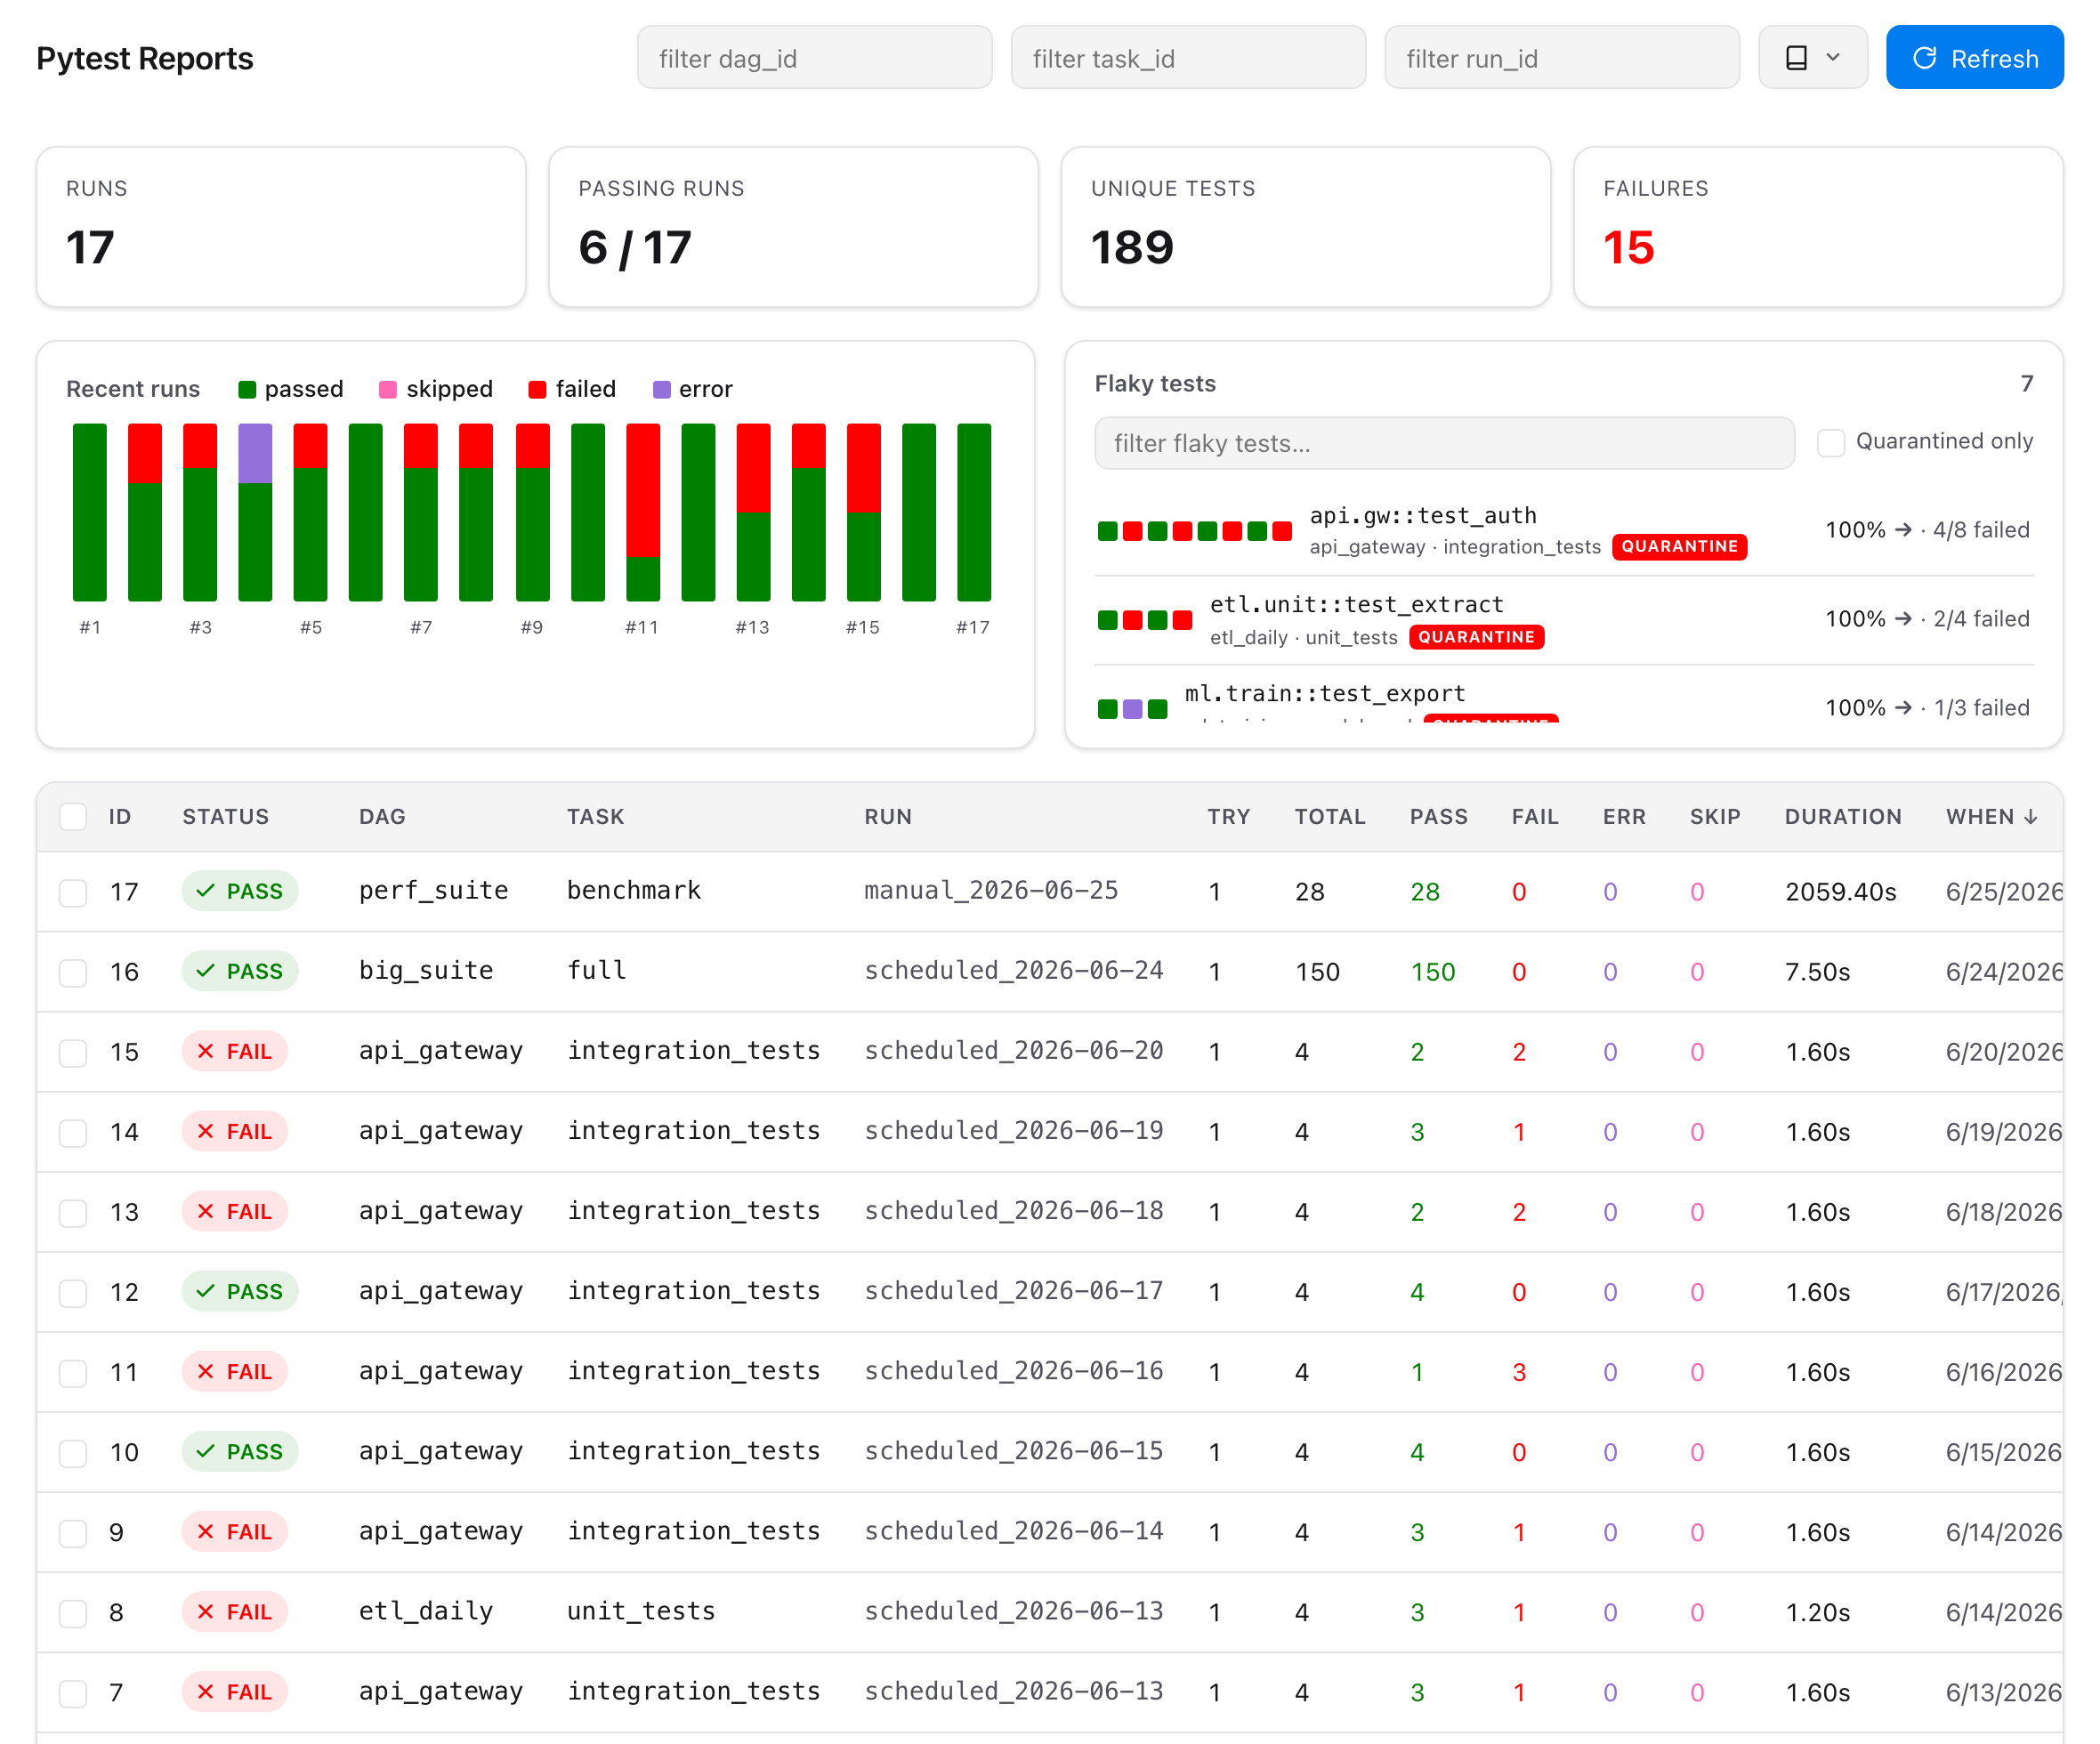
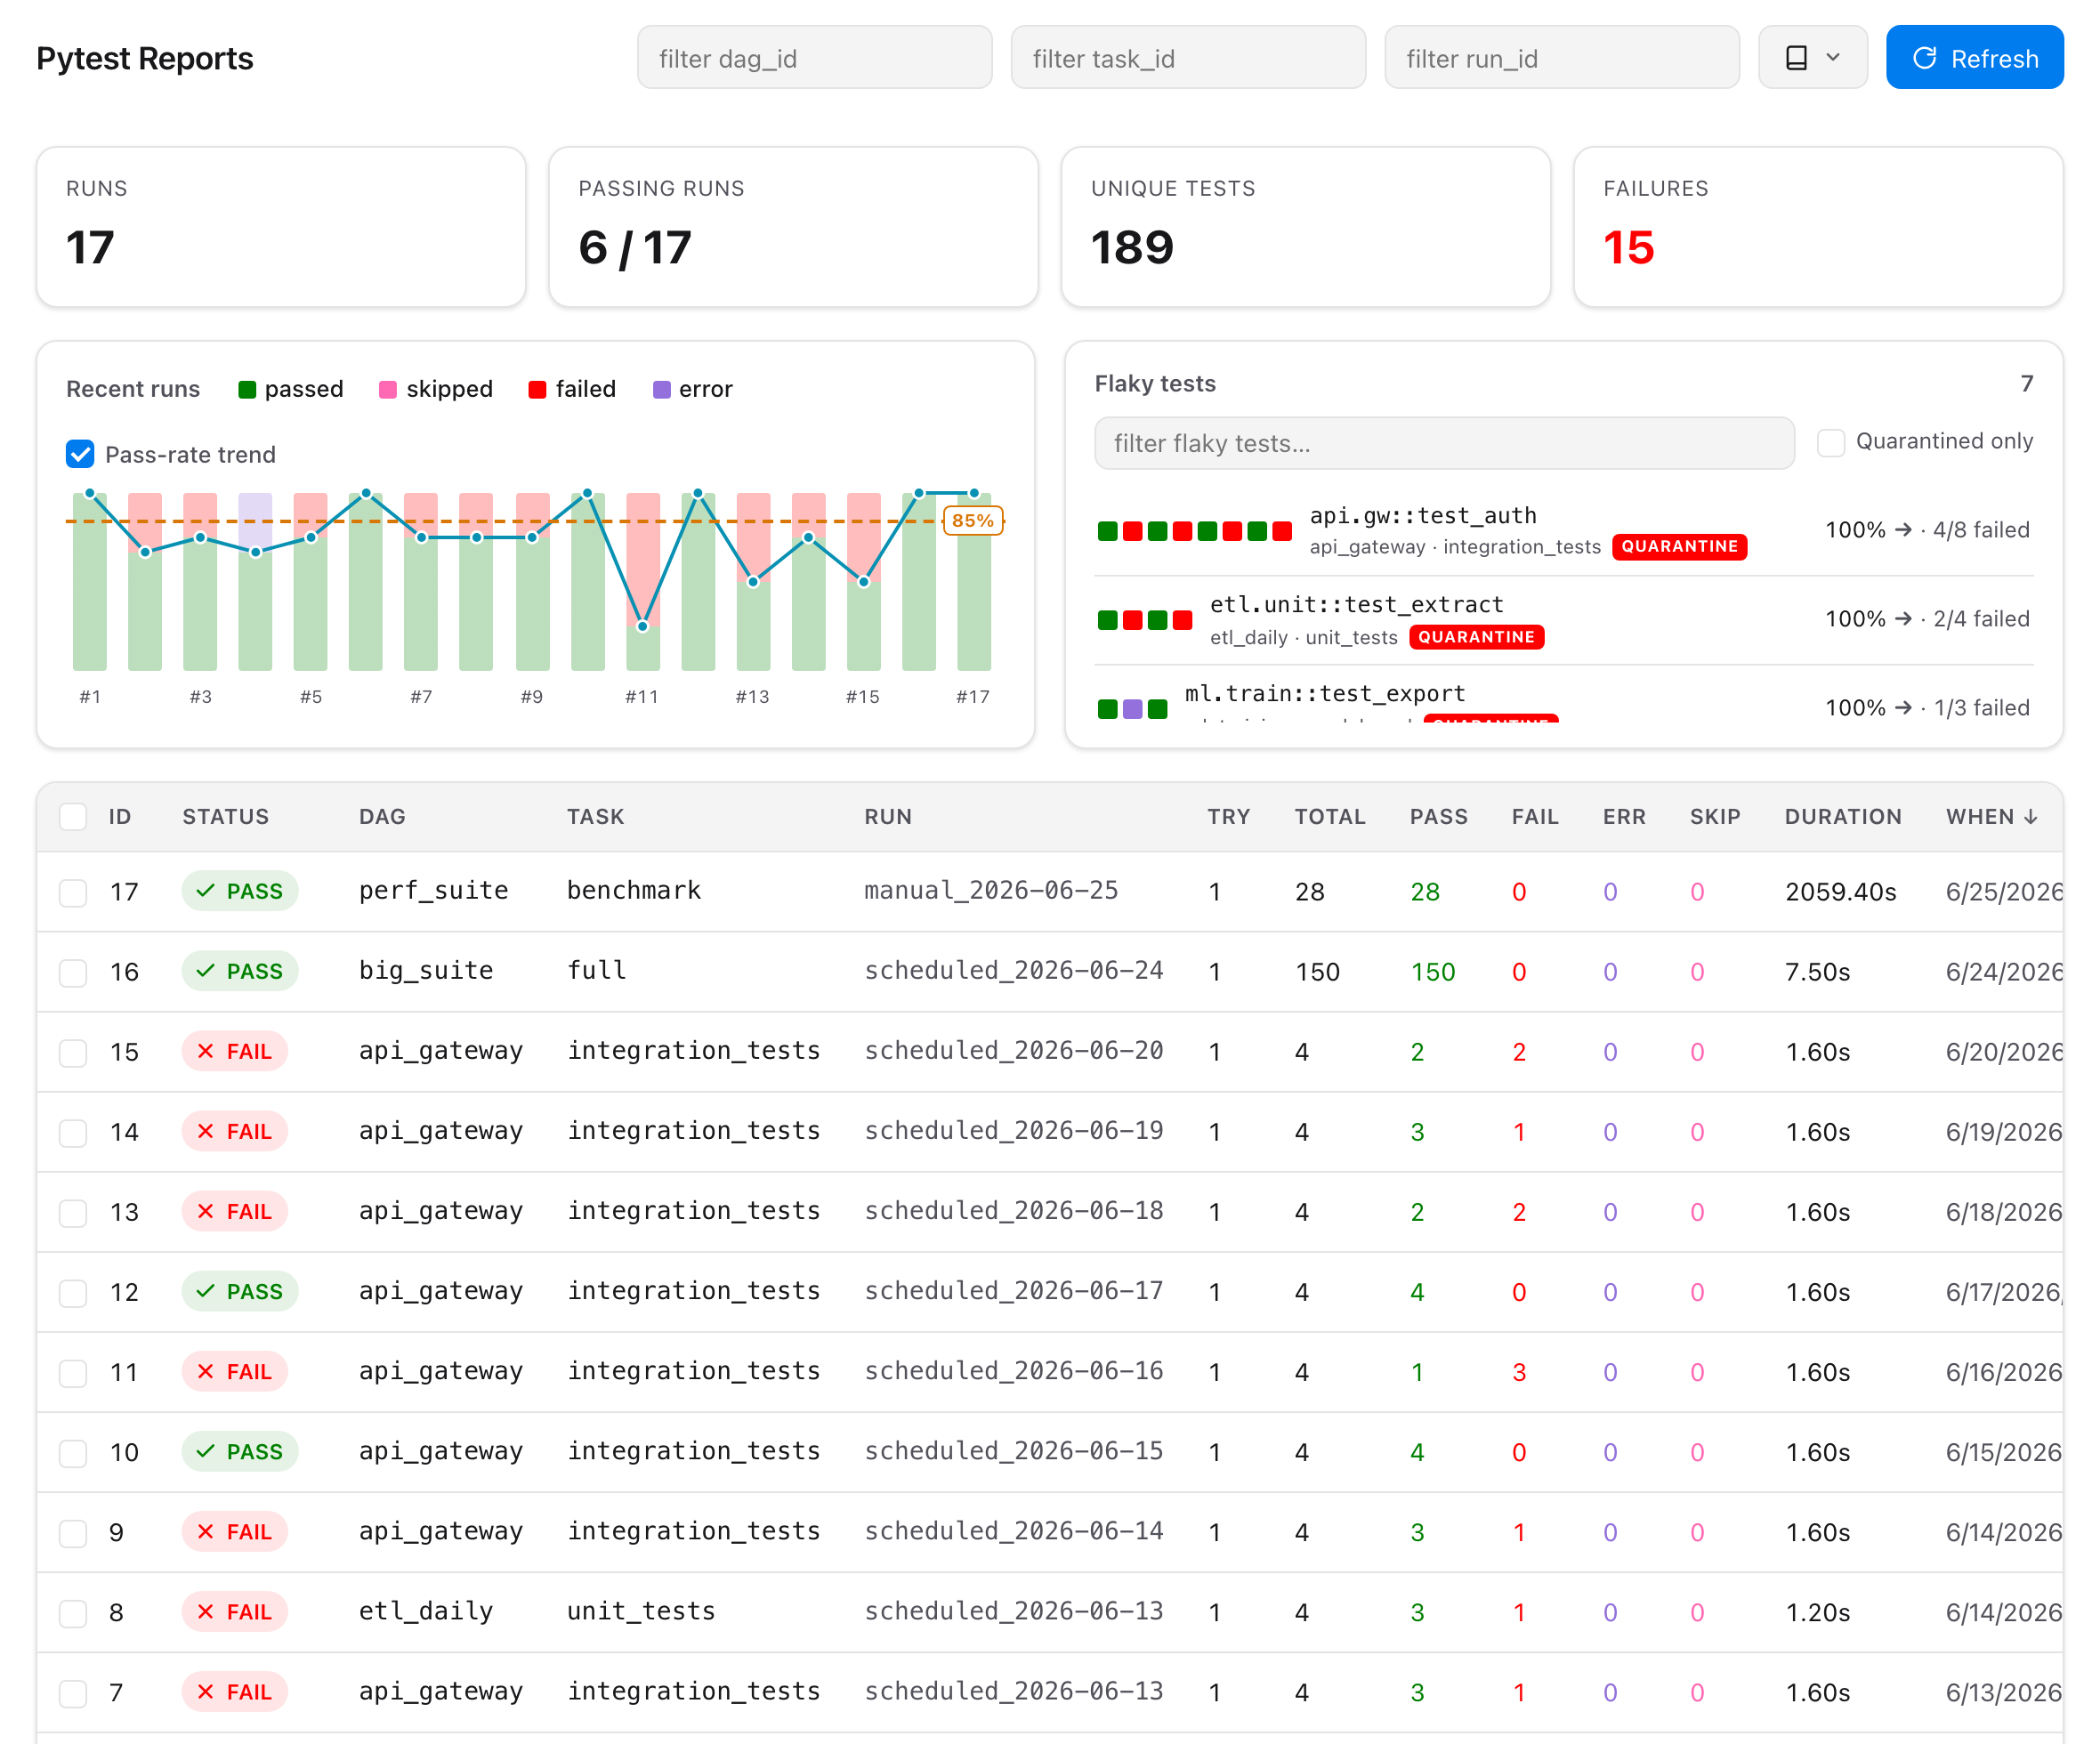
v0.3.1 pass-rate trend

Changed region(s): [[0.0309, 0.2179, 0.4949, 0.4046]]

diff --git a/src/airflow_pytest_plugin/web/templates.py b/src/airflow_pytest_plugin/web/templates.py
@@ -30,6 +30,8 @@ _INDEX_HTML = r"""<!DOCTYPE html>
     --primary: #017cee; --on-primary: #ffffff; --ring: #017cee40;
     --pass: #008000; --fail: #ff0000; --skip: #ff69b4; --error: #9370db;
     --pass-bg: #0080001a; --fail-bg: #ff00001a; --skip-bg: #ff69b41f; --error-bg: #9370db1f;
+    --trend: #0891b2;  /* cyan pass-rate trend line (darker for contrast on white) */
+    --thresh: #d97706;  /* amber success-threshold gridline -- distinct from the line */
     --shadow: 0 1px 2px #0000000d, 0 1px 3px #00000014;
     /* Tooltip inverts the page: dark bubble on the light theme. */
     --tip-bg: #18181b; --tip-fg: #fafafa; --tip-border: #3f3f46;
@@ -40,6 +42,8 @@ _INDEX_HTML = r"""<!DOCTYPE html>
     --primary: #4ba3f5; --on-primary: #07121e; --ring: #017cee66;
     --pass: #2ecc71; --fail: #ff6b6b; --skip: #ff8ecb; --error: #b39ddb;
     --pass-bg: #2ecc711f; --fail-bg: #ff6b6b1f; --skip-bg: #ff8ecb1f; --error-bg: #b39ddb1f;
+    --trend: #22d3ee;  /* cyan pass-rate trend line (brighter on the navy theme) */
+    --thresh: #fbbf24;  /* amber success-threshold gridline */
     --shadow: 0 1px 3px #00000040, 0 2px 8px #00000033;
     /* ...and a white bubble on the dark theme. */
     --tip-bg: #fafafa; --tip-fg: #18181b; --tip-border: #d4d4d8;
@@ -150,6 +154,21 @@ _INDEX_HTML = r"""<!DOCTYPE html>
     font: inherit; font-weight: 600; text-decoration: underline; padding: 0; }
   .chart-clear:hover { opacity: .8; }
   .chart-clear:focus-visible { outline: 2px solid var(--ring); outline-offset: 2px; border-radius: 3px; }
+  /* Pass-rate trend: checkbox toggle + the cyan line/dots/threshold overlay. */
+  .trend-toggle { display: inline-flex; align-items: center; gap: 6px; cursor: pointer;
+    font-weight: 500; white-space: nowrap; color: var(--muted); }
+  #chart { position: relative; }
+  .trend-svg { position: absolute; left: 0; top: 0; pointer-events: none; overflow: visible; }
+  .trend-line { fill: none; stroke: var(--trend); stroke-width: 2;
+    stroke-linejoin: round; stroke-linecap: round; }
+  .trend-dot { fill: var(--trend); stroke: var(--surface); stroke-width: 1.5;
+    pointer-events: auto; cursor: pointer; }
+  .trend-thresh { position: absolute; left: 0; right: 0; pointer-events: none;
+    border-top: 2px dashed var(--thresh); }
+  .trend-thresh span { position: absolute; right: 2px; top: -9px; font-size: 10px;
+    font-weight: 700; color: var(--thresh); background: var(--surface); padding: 0 4px;
+    border-radius: 3px; box-shadow: 0 0 0 1px var(--thresh); }
+  .trend-thresh.label-below span { top: 3px; }  /* high threshold -> label under the line */
   .legend { display: inline-flex; gap: 6px; flex-wrap: wrap; }
   .legend button { display: inline-flex; align-items: center; gap: 5px; border: 0;
     background: none; color: var(--fg); cursor: pointer; font: inherit; font-weight: 500;
@@ -163,7 +182,8 @@ _INDEX_HTML = r"""<!DOCTYPE html>
      The bars live in a fixed-width strip inside a horizontal scroll viewport:
      drag (mouse) or swipe/trackpad (native) or the arrows pan it smoothly. The
      scrollbar is hidden -- the arrows + grab cursor are the affordance. */
-  .chart-bars { position: relative; height: 122px; overflow-x: auto; overflow-y: hidden;
+  /* 6px of headroom up top so a 100%-pass trend dot is never clipped. */
+  .chart-bars { position: relative; height: 128px; overflow-x: auto; overflow-y: hidden;
     cursor: grab; touch-action: pan-x; overscroll-behavior-x: contain; scrollbar-width: none;
     user-select: none; -webkit-user-select: none; }
   .chart-bars::-webkit-scrollbar { display: none; }
@@ -171,8 +191,12 @@ _INDEX_HTML = r"""<!DOCTYPE html>
   .chart-bars.dragging .bar { cursor: grabbing; }
   .bars-strip { position: relative; height: 100%; }
   .bar { position: absolute; bottom: 22px; height: 100px; border-radius: 2px;
-    background: var(--surface-2); transition: filter .12s; cursor: pointer; }
+    background: var(--surface-2); transition: filter .12s, opacity .12s; cursor: pointer; }
   .bar:hover { filter: brightness(1.08); }
+  /* With the trend on, bars recede so the line/threshold read clearly; hovering one
+     brings it back to full strength. */
+  .bars-strip.trend-on .bar { opacity: .26; }
+  .bars-strip.trend-on .bar:hover { opacity: 1; filter: brightness(1.08); }
   .bnum { position: absolute; bottom: 0; width: 36px; text-align: center; font-size: 10px;
     color: var(--muted); font-variant-numeric: tabular-nums; white-space: nowrap; }
   /* Hover tooltip: inverts the page theme. */
@@ -298,20 +322,21 @@ _INDEX_HTML = r"""<!DOCTYPE html>
   .bulk-del:focus-visible, .bulk-close:focus-visible { outline: 2px solid var(--ring); outline-offset: 1px; }
   /* Checkboxes styled like Airflow's (Chakra): rounded square, brand-blue + white tick when on. */
   .sel-cell { width: 1%; white-space: nowrap; padding-right: 0; }
-  .sel-cell input[type="checkbox"], #case-grp, #flk-qonly, #flk-board-qonly {
+  .sel-cell input[type="checkbox"], #case-grp, #flk-qonly, #flk-board-qonly, #trend-toggle {
     appearance: none; -webkit-appearance: none; margin: 0; width: 16px; height: 16px;
     cursor: pointer; vertical-align: middle; background: var(--surface);
     border: 1px solid var(--border); border-radius: 4px; flex: 0 0 auto;
     display: inline-grid; place-content: center; transition: background .12s, border-color .12s; }
   .sel-cell input[type="checkbox"]:hover, #case-grp:hover, #flk-qonly:hover,
-  #flk-board-qonly:hover { border-color: var(--primary); }
+  #flk-board-qonly:hover, #trend-toggle:hover { border-color: var(--primary); }
   .sel-cell input[type="checkbox"]:focus-visible, #case-grp:focus-visible, #flk-qonly:focus-visible,
-  #flk-board-qonly:focus-visible { outline: 2px solid var(--ring); outline-offset: 1px; }
+  #flk-board-qonly:focus-visible, #trend-toggle:focus-visible {
+    outline: 2px solid var(--ring); outline-offset: 1px; }
   .sel-cell input[type="checkbox"]:checked, #case-grp:checked, #flk-qonly:checked,
-  #flk-board-qonly:checked, .sel-cell input[type="checkbox"]:indeterminate {
+  #flk-board-qonly:checked, #trend-toggle:checked, .sel-cell input[type="checkbox"]:indeterminate {
     background: var(--primary); border-color: var(--primary); }
   .sel-cell input[type="checkbox"]:checked::after, #case-grp:checked::after, #flk-qonly:checked::after,
-  #flk-board-qonly:checked::after {
+  #flk-board-qonly:checked::after, #trend-toggle:checked::after {
     content: ""; width: 4px; height: 8px; border: solid #fff; border-width: 0 2px 2px 0;
     transform: rotate(45deg) translate(-0.5px, -1px); }
   .sel-cell input[type="checkbox"]:indeterminate::after {
@@ -563,6 +588,8 @@ _INDEX_HTML = r"""<!DOCTYPE html>
         <span class="chart-filter" id="chart-filter" hidden></span>
         <span class="legend" id="legend"></span>
         <span style="flex:1"></span>
+        <label class="trend-toggle"><input type="checkbox" id="trend-toggle" />
+          <span data-i18n="trendToggle">Pass-rate trend</span></label>
         <span class="chart-nav" id="chart-nav"></span>
       </div>
       <div id="chart"></div>
@@ -716,6 +743,7 @@ _INDEX_HTML = r"""<!DOCTYPE html>
       filterDagAl: "Filter by dag_id", filterTaskAl: "Filter by task_id", filterRunAl: "Filter by run_id",
       history: "Recent runs", copyLink: "Copy link", copied: "Copied",
       chartSelected: "showing {n} selected", chartShowAll: "show all",
+      trendToggle: "Pass-rate trend", passRate: "pass rate",
       closeReport: "Close report", ofWord: "of", testsWord: "tests",
       apiDocs: "API docs", linksAl: "Links & documentation", ghItem: "GitHub",
       benchTitle: "Test durations (10s buckets)", uniqueTitle: "Unique tests",
@@ -774,6 +802,7 @@ _INDEX_HTML = r"""<!DOCTYPE html>
       filterDagAl: "Фильтр по dag_id", filterTaskAl: "Фильтр по task_id", filterRunAl: "Фильтр по run_id",
       history: "Последние прогоны", copyLink: "Копировать ссылку", copied: "Скопировано",
       chartSelected: "показаны выбранные: {n}", chartShowAll: "показать все",
+      trendToggle: "Тренд прохождения", passRate: "доля прохождения",
       closeReport: "Закрыть отчёт", ofWord: "из", testsWord: "тестов",
       apiDocs: "Документация API", linksAl: "Ссылки и документация", ghItem: "GitHub",
       benchTitle: "Время выполнения тестов (по 10с)", uniqueTitle: "Уникальные тесты",
@@ -1009,6 +1038,8 @@ _INDEX_HTML = r"""<!DOCTYPE html>
     ["error", "errors", "var(--error)"],
   ];
   var chartSel = { passed: true, skipped: true, failed: true, error: true };
+  var passTrend = false;        // overlay the pass-rate trend line (checkbox-toggled)
+  var successThreshold = 0.85;  // echoed by /api/reports; drives the trend's threshold line
   var CHART_VISIBLE = 30; // bars visible at once; beyond that the strip scrolls (carousel)
   var PAGE_SIZE = 100;    // list rows per page
   var chartScroll = null; // null => snap to newest; else a remembered scrollLeft (px)
@@ -1305,6 +1336,7 @@ _INDEX_HTML = r"""<!DOCTYPE html>
       bar.addEventListener("click", function () { if (!chartDragged) openDetail(id); });
       bindTip(bar, function () { return barTip(r, r.seq); });
     });
+    renderTrend(chart, strip, win, slot, stripW);
 
     // Start at the newest (right) unless a scroll position is being preserved
     // (e.g. across a legend toggle). Wire arrows, drag, and scroll memory.
@@ -1315,6 +1347,52 @@ _INDEX_HTML = r"""<!DOCTYPE html>
       chartScroll = barsEl.scrollLeft; updateChartArrows(barsEl);
     });
     enableChartDrag(barsEl);
+  }
+
+  // Pass-rate trend overlay: a cyan line through each bar's green-top (passed/total),
+  // dots with an exact-% tooltip, and a dashed threshold gridline. Bars are 100%-
+  // normalised, so the green top IS the pass rate. Only drawn when the checkbox is on.
+  function renderTrend(chart, strip, win, slot, stripW) {
+    if (!passTrend) return;
+    strip.classList.add("trend-on");  // dim the bars so the line stands out
+    // Map a pass rate to a y inside the bar's pixel box: the bar fills the bottom
+    // 100px (above a 22px label strip), leaving headroom up top for the 100% dot.
+    var BAR_BOTTOM = 22, BAR_H = 100;
+    var barTop = (strip.clientHeight || 128) - BAR_BOTTOM - BAR_H;  // = top headroom
+    var yOf = function (rate) { return barTop + BAR_H * (1 - rate); };
+    var pts = [];
+    win.forEach(function (r, i) {
+      var tot = r.total || 0;
+      if (tot <= 0) return;  // no tests -> no green top to plot
+      var rate = (r.passed || 0) / tot;
+      pts.push({ x: slot * (i + 0.5), y: yOf(rate), r: r, rate: rate });
+    });
+    var poly = pts.map(function (p) { return p.x.toFixed(1) + "," + p.y.toFixed(1); }).join(" ");
+    var dots = pts.map(function (p) {
+      return '<circle class="trend-dot" cx="' + p.x.toFixed(1) + '" cy="' + p.y.toFixed(1)
+        + '" r="3.2" data-id="' + esc(p.r.id) + '"></circle>';
+    }).join("");
+    var line = pts.length > 1
+      ? '<polyline class="trend-line" points="' + esc(poly) + '"></polyline>' : "";
+    strip.insertAdjacentHTML("beforeend",
+      '<svg class="trend-svg" width="' + stripW + '" height="' + (strip.clientHeight || 128)
+      + '" aria-hidden="true">' + line + dots + "</svg>");
+    strip.querySelectorAll(".trend-dot").forEach(function (dot, i) {
+      var p = pts[i];
+      dot.addEventListener("click", function () { if (!chartDragged) openDetail(p.r.id); });
+      bindTip(dot, function () {
+        return "<b>#" + p.r.seq + "</b> " + esc(t("passRate")) + ": "
+          + Math.round(p.rate * 100) + "% (" + (p.r.passed || 0) + "/" + (p.r.total || 0) + ")";
+      });
+    });
+    // Dashed threshold gridline, pinned (lives in #chart, outside the scrolling strip).
+    var thy = yOf(successThreshold);
+    var th = document.createElement("div");
+    // Near the top (a high threshold) the label flips below the line so it isn't clipped.
+    th.className = "trend-thresh" + (thy < 14 ? " label-below" : "");
+    th.style.top = thy.toFixed(1) + "px";
+    th.innerHTML = "<span>" + Math.round(successThreshold * 100) + "%</span>";
+    chart.appendChild(th);
   }
 
   function renderChartFilterNote(active, shown) {
@@ -1492,6 +1570,7 @@ _INDEX_HTML = r"""<!DOCTYPE html>
       .then(function (r) { if (!r.ok) throw new Error("HTTP " + r.status); return r.json(); })
       .then(function (d) {
         allReports = d.reports || [];
+        if (typeof d.success_threshold === "number") successThreshold = d.success_threshold;
         populateSuggestions();
         applyFilter();
         loadFlaky();
@@ -2518,6 +2597,10 @@ _INDEX_HTML = r"""<!DOCTYPE html>
   if (flkBoardQ) flkBoardQ.addEventListener("input", renderFlakyBoard);
   var flkBoardQOnly = document.getElementById("flk-board-qonly");
   if (flkBoardQOnly) flkBoardQOnly.addEventListener("change", renderFlakyBoard);
+  var trendToggle = document.getElementById("trend-toggle");
+  if (trendToggle) trendToggle.addEventListener("change", function () {
+    passTrend = this.checked; renderChart();
+  });
   bindSuggest("f-dag", "sg-dag", "dag_id");
   bindSuggest("f-task", "sg-task", "task_id");
   bindSuggest("f-run", "sg-run", "run_id");

diff --git a/src/airflow_pytest_plugin/web/routes/reports.py b/src/airflow_pytest_plugin/web/routes/reports.py
@@ -21,6 +21,7 @@ from typing import Any
 from fastapi import APIRouter, Depends, HTTPException
 from fastapi.responses import JSONResponse, Response
 
+from ...config import get_success_threshold
 from .common import RouteDeps, ref_from_token
 
 TAG = "reports"
@@ -49,11 +50,17 @@ def build_router(deps: RouteDeps) -> APIRouter:
         Each entry carries the pass/fail/skip/error counts, duration, identity
         (dag·run·task·try) and its opaque token. Optional ``dag_id`` / ``run_id``
         narrow by case-insensitive substring. Only runs the caller may read are
-        returned (RBAC).
+        returned (RBAC). ``success_threshold`` echoes the configured pass-rate bar
+        (0–1) so the UI can draw it on the chart.
         """
         summaries = src.list_summaries(dag_id=dag_id, run_id=run_id)
         visible = [s for s in summaries if read_auth(s.ref.dag_id, user)]
-        return JSONResponse({"reports": [s.to_dict() for s in visible]})
+        return JSONResponse(
+            {
+                "reports": [s.to_dict() for s in visible],
+                "success_threshold": get_success_threshold(),
+            }
+        )
 
     @router.get("/api/reports/{report_id}", summary="Get a run")
     def get_report(

diff --git a/tests/test_web_app.py b/tests/test_web_app.py
@@ -141,6 +141,12 @@ def test_index_has_feature_markers(client):
         "renderChartFilterNote",
         "clearSelection",
         "chartSelected",
+        'id="trend-toggle"',
+        "renderTrend",
+        "trendToggle",
+        "trend-line",
+        "trend-thresh",
+        "trend-on",
         "fillCases",
         'id="case-q"',
         'id="links-btn"',
@@ -222,8 +228,11 @@ def test_reports_success_reflects_pass_rate_threshold(reports_root):
     # A run with a failure but a 90% pass rate counts as successful at the default
     # 0.85 bar -> drives the "Passing runs" KPI and the PASS status badge.
     write_report(reports_root, ReportRef("dag", "run", "task", 1), passed=9, failed=1)
-    r = TestClient(make_app(reports_root)).get("/api/reports").json()["reports"][0]
+    body = TestClient(make_app(reports_root)).get("/api/reports").json()
+    r = body["reports"][0]
     assert r["failed"] == 1 and r["success"] is True
+    # The threshold is echoed so the chart can draw the pass-rate gridline.
+    assert body["success_threshold"] == 0.85
 
 
 def test_detail_endpoint_round_trips_token(client):

diff --git a/README.md b/README.md
@@ -54,10 +54,11 @@ It has two halves that share one on-disk layout:
 ## Screenshots
 
 **Overview** — the run list with the historical chart (per-status legend
-toggles, run numbers, and a carousel beyond 30 runs; **tick runs in the list to
-filter the chart to just their trend**) beside a **flaky-tests panel** (with its
-own search and a quarantined-only toggle), KPI cards (including a clickable
-**unique tests** count), and Airflow-matched colours and font:
+toggles, run numbers, a carousel beyond 30 runs, an optional **pass-rate trend
+line** with a success-threshold gridline, and **tick runs in the list to filter
+the chart to just their trend**) beside a **flaky-tests panel** (with its own
+search and a quarantined-only toggle), KPI cards (including a clickable **unique
+tests** count), and Airflow-matched colours and font:
 
 ![Pytest Reports — overview](https://raw.githubusercontent.com/IKrysanov/airflow-pytest-plugin/main/docs/screenshots/overview.png)
 

diff --git a/CHANGELOG.md b/CHANGELOG.md
@@ -30,6 +30,12 @@ and this project adheres to [Semantic Versioning](https://semver.org/spec/v2.0.0
 - **Chart run-filter** — ticking runs in the list now filters the history chart to
   just those bars (empty selection = all), so you can read the trend of a chosen
   subset; a "show all" affordance on the chart clears it.
+- **Pass-rate trend line** — a checkbox over the chart overlays a cyan line through
+  each bar's pass ratio (top of the green band), with per-run dots (exact pass-% on
+  hover) and an amber dashed gridline at the success threshold; while it's on the
+  bars recede and the hovered one lights up, so the quality trend and the bar
+  against it read at a glance. Off by default; `/api/reports` now echoes
+  `success_threshold` for the gridline.
 - **Configurable success threshold** — a run now counts as successful (the *Passing
   runs* KPI and the PASS status) when its pass rate over *executed* tests is at or
   above `AIRFLOW_PYTEST_SUCCESS_THRESHOLD` (env or cfg, default `0.85`); skipped